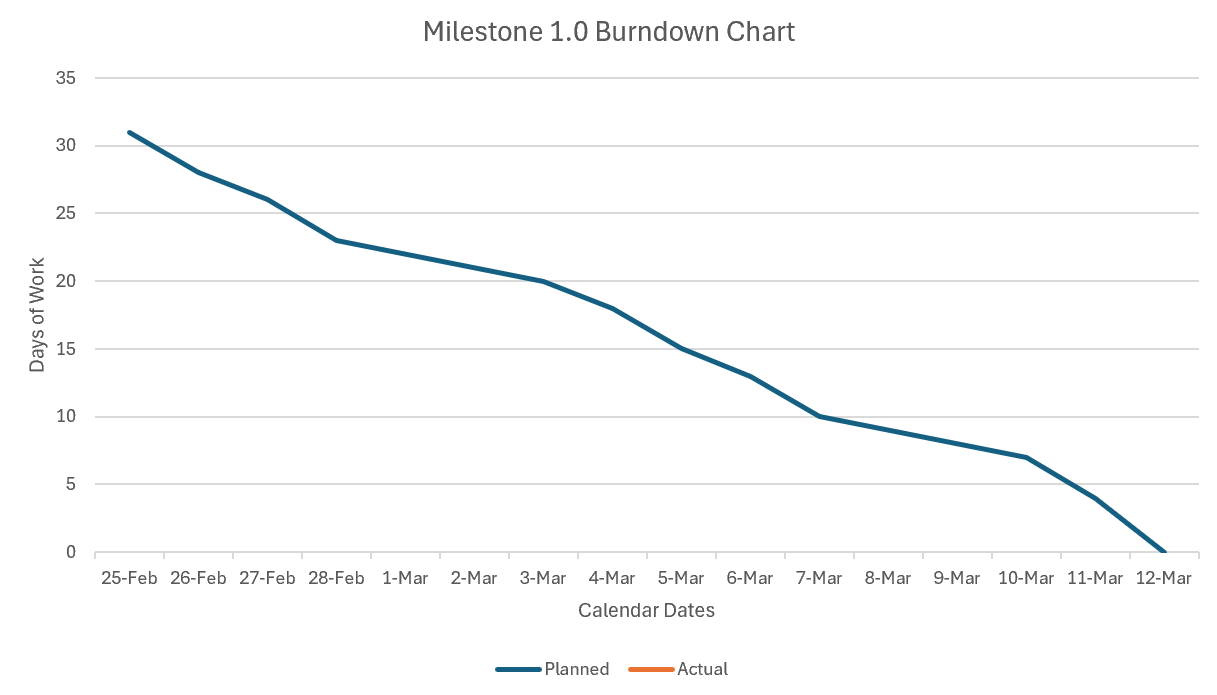
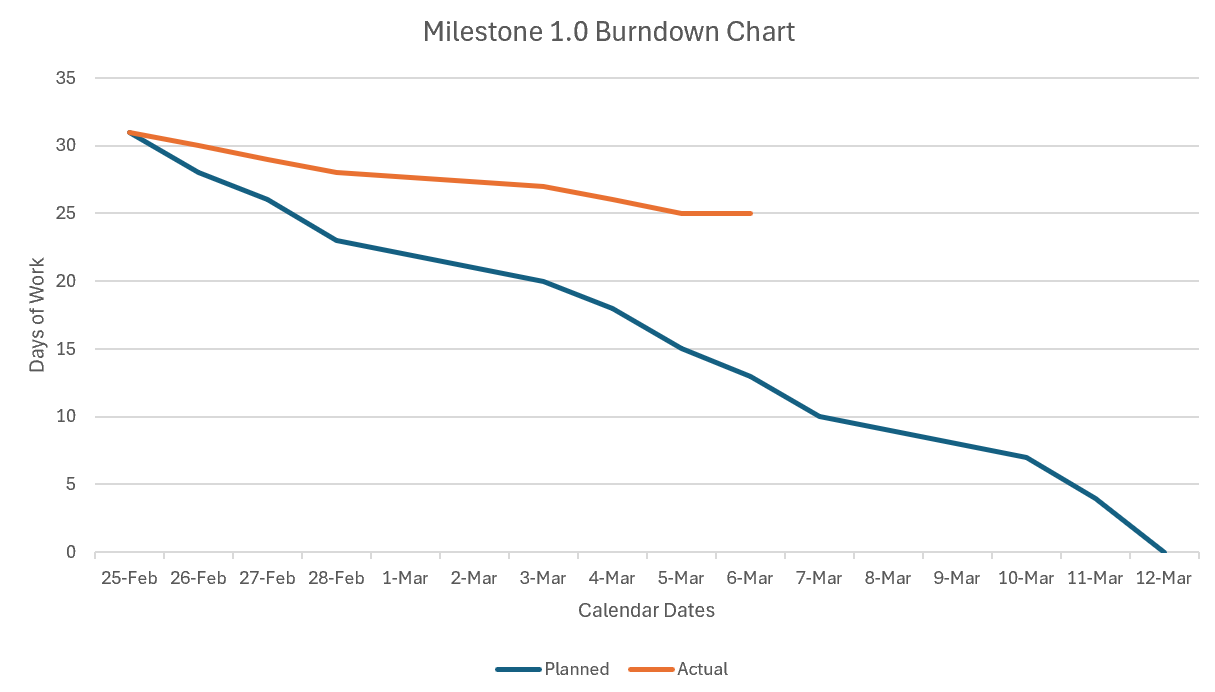
Updated burndown chart

diff --git a/README.md b/README.md
@@ -220,7 +220,7 @@
   - Implement medication verification logging system (2 days)
   - Build the UI for administrators to review verification logs (2 days)
   - Test logging system (1 day)
-## Milestone 1.0 Burndown Chart
+## Milestone 1.0 Burndown Chart (as of 03/06)
 ![Image of Milestone 1.0 Burndown Chart](Milestone1.0_Burndown_Chart.png)
 ## Tentative Meeting Schedule
 - February 17, 2025 @ 8PM
